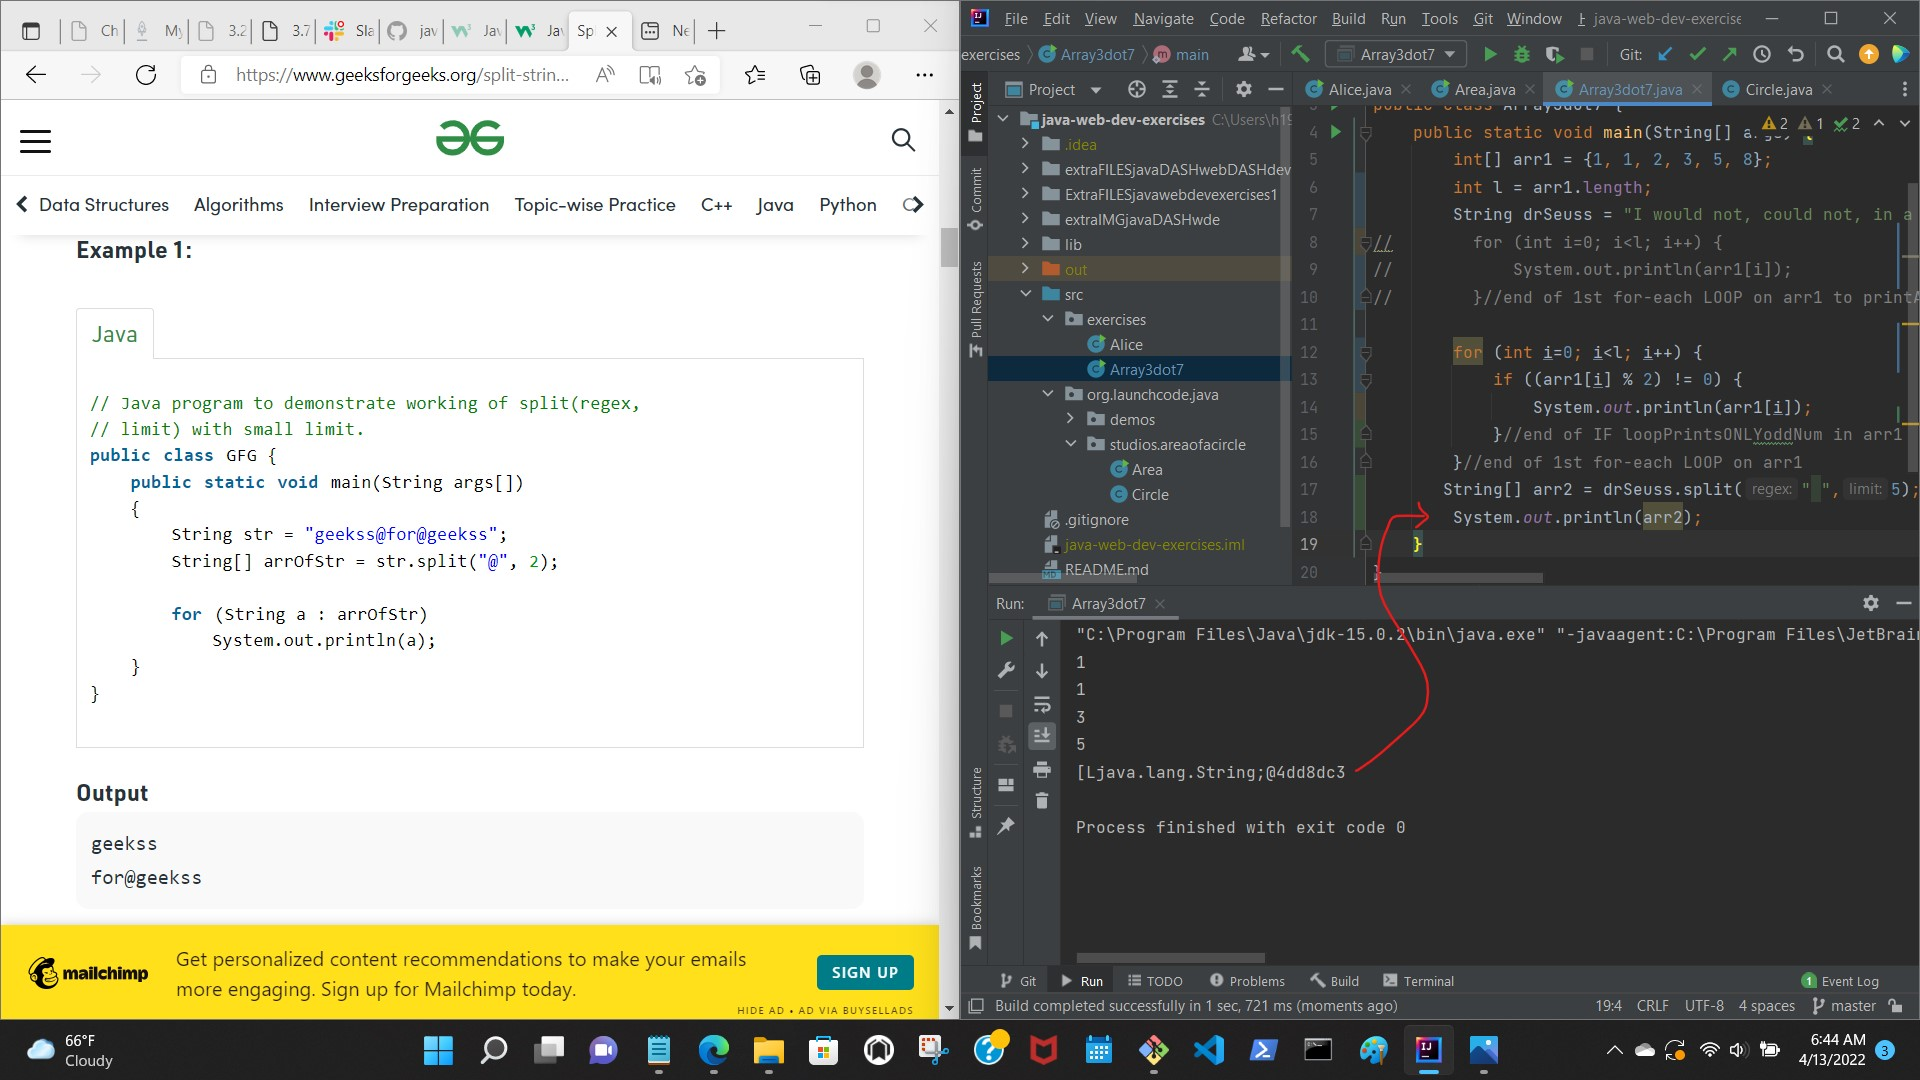
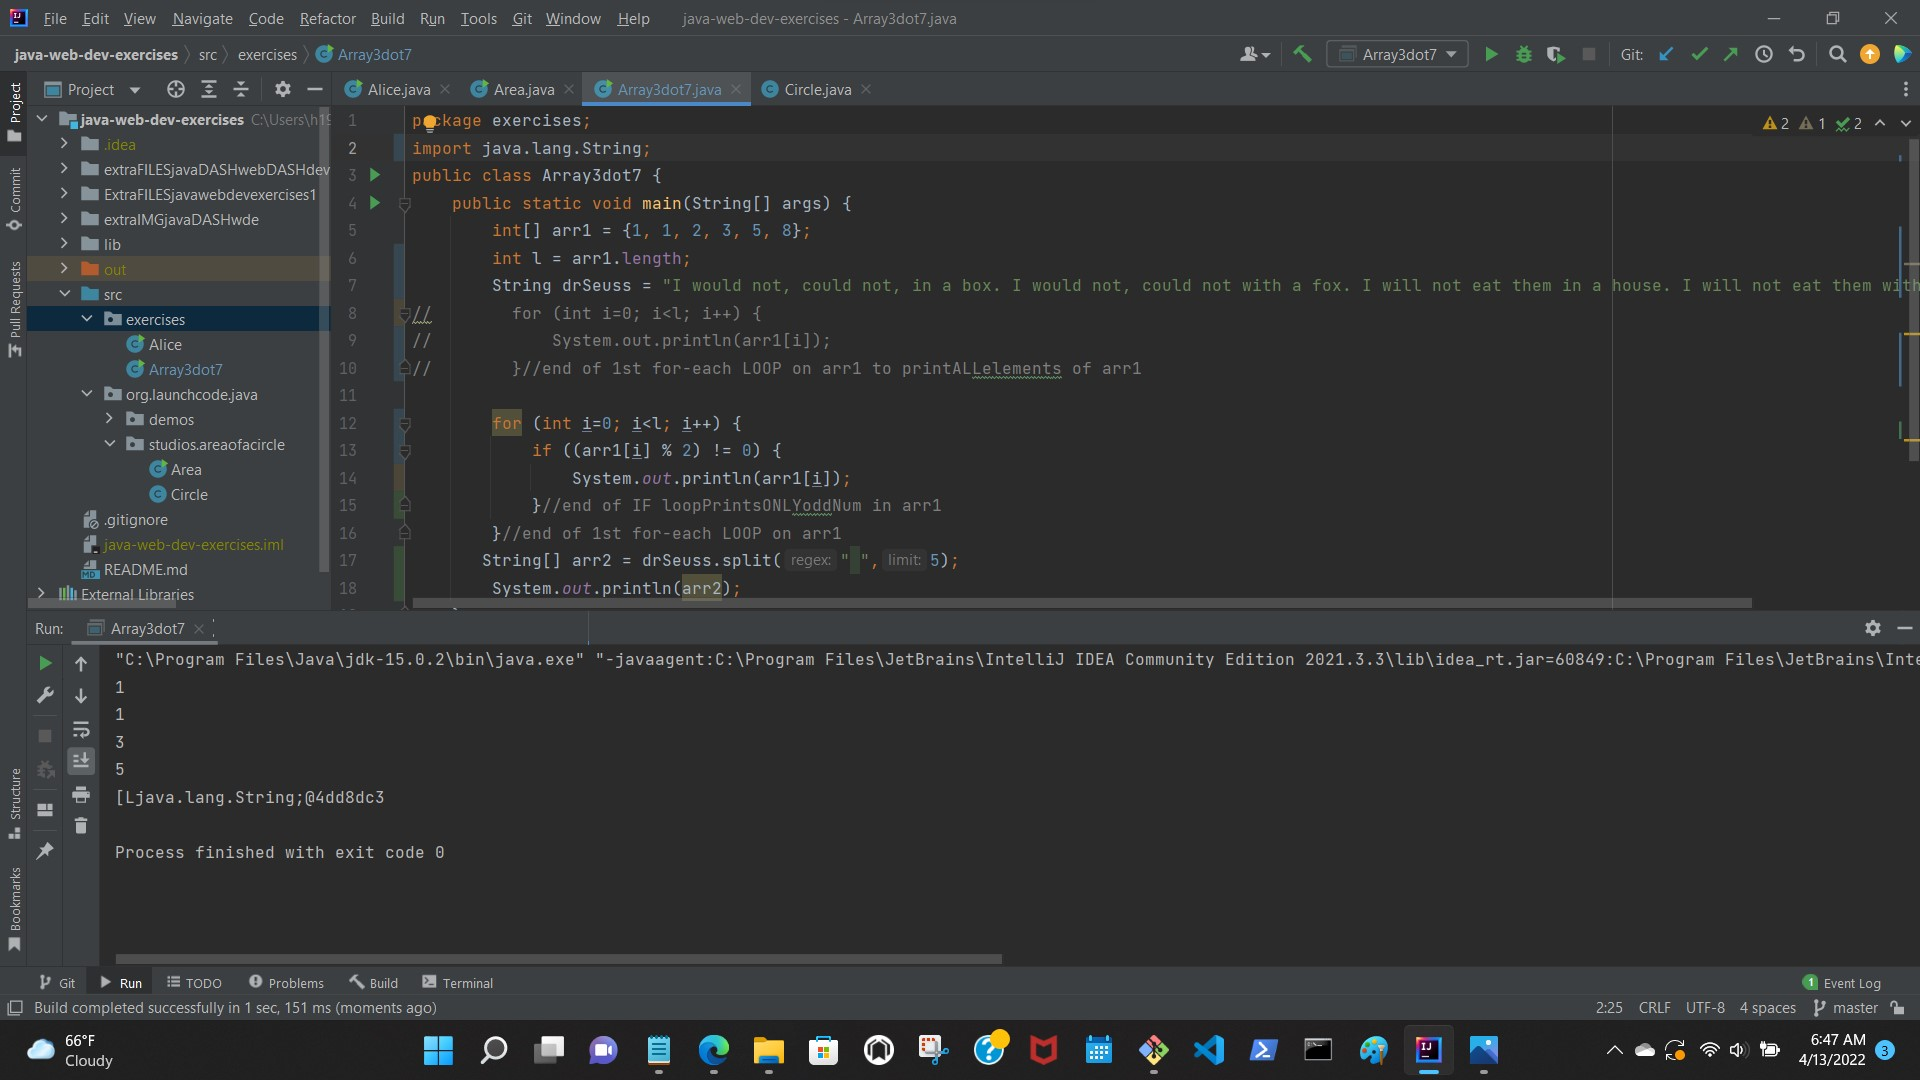
2022d13apr Array3dot7 textFile2storeFileLocation

diff --git a/src/exercises/Array3dot7.java b/src/exercises/Array3dot7.java
@@ -1,15 +1,20 @@
 package exercises;
-
+import java.lang.String;
 public class Array3dot7 {
     public static void main(String[] args) {
         int[] arr1 = {1, 1, 2, 3, 5, 8};
-//        int l = arr1.length();
-//        for (int i=0; i<l; i++){
-//
-//        }//end of 1st arr1 FOR loop
+        int l = arr1.length;
+        String drSeuss = "I would not, could not, in a box. I would not, could not with a fox. I will not eat them in a house. I will not eat them with a mouse.";
+//        for (int i=0; i<l; i++) {
+//            System.out.println(arr1[i]);
+//        }//end of 1st for-each LOOP on arr1 to printALLelements of arr1
 
-        for (int i : arr1) {
-            System.out.println(arr1[i]);
+        for (int i=0; i<l; i++) {
+            if ((arr1[i] % 2) != 0) {
+                System.out.println(arr1[i]);
+            }//end of IF loopPrintsONLYoddNum in arr1
         }//end of 1st for-each LOOP on arr1
+       String[] arr2 = drSeuss.split(" ",5);
+        System.out.println(arr2);
     }
 }
